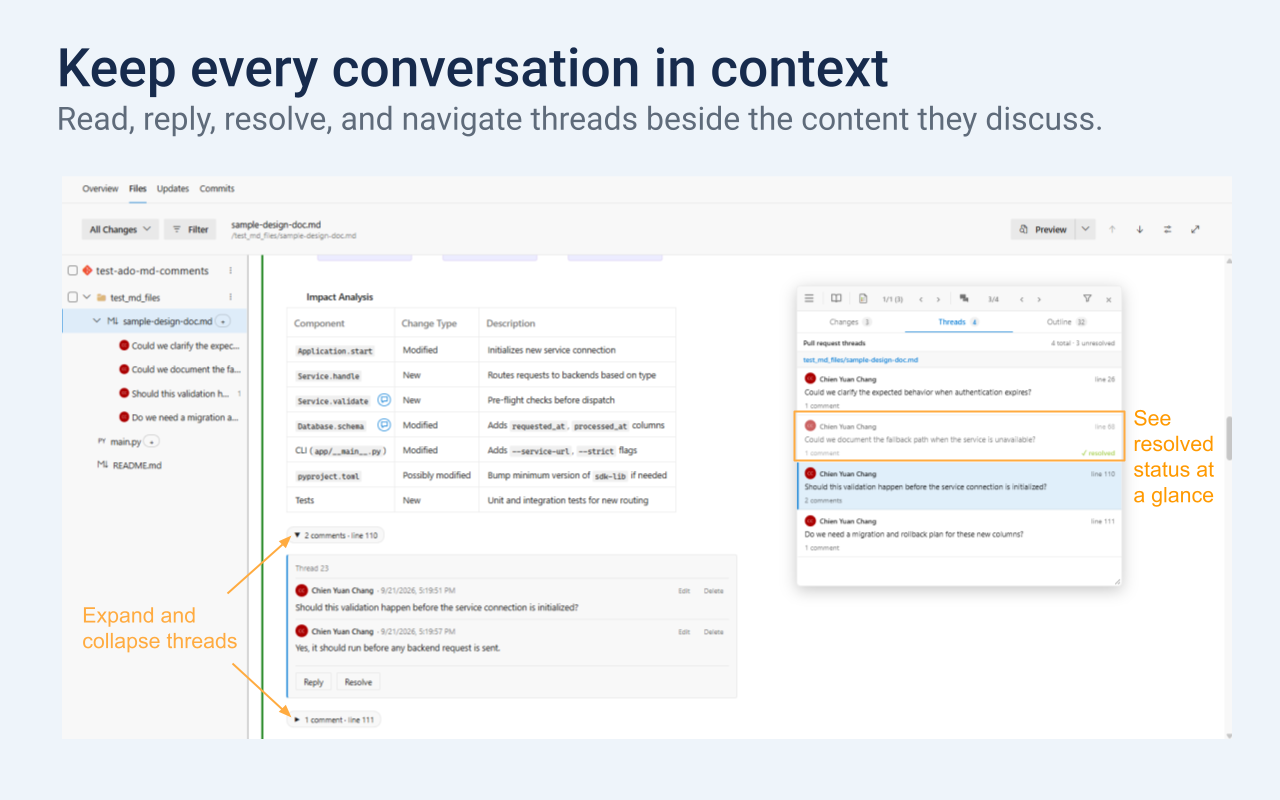
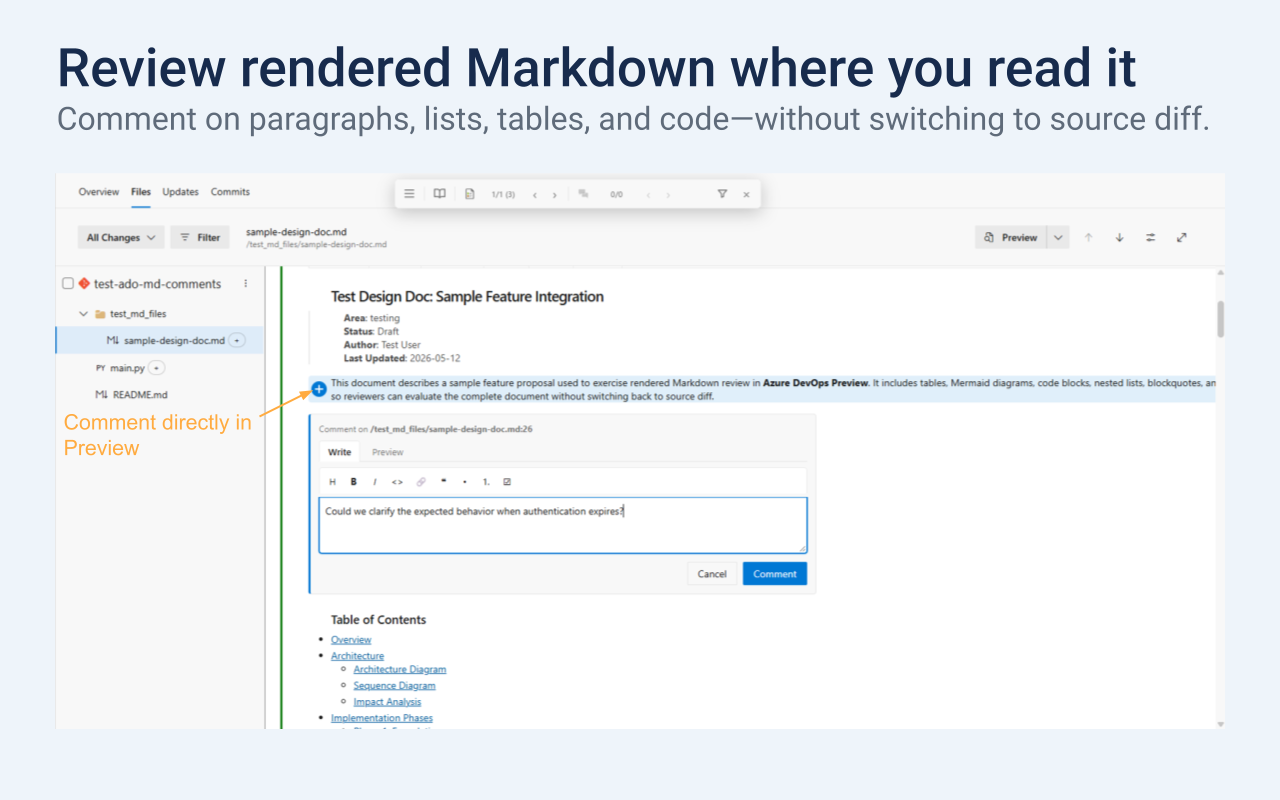
update screenshots

diff --git a/design/screenshots/GITHUB_CAPTURE_PLAN.md b/design/screenshots/GITHUB_CAPTURE_PLAN.md
@@ -1,0 +1,103 @@
+# GitHub store screenshot capture plan
+
+Create four 1280×800 screenshots for the current GitHub store set. The set should explain the whole product rather than concentrating on one release. Use the same visual frame as the ADO set: pale header, large benefit-led title, one concise subtitle, and a cropped product view below.
+
+## Shared capture rules
+
+- Capture GitHub in light theme at a consistent browser zoom and viewport.
+- Use `test_md_files/sample-design-doc.md` as the canonical source document and keep the same pull request throughout the set.
+- Keep repository, branch, and comment text safe for public store listings.
+- Show one primary workflow per image; avoid covering important rendered content with the sidebar.
+- Prefer one restrained orange annotation when discovery would otherwise be difficult.
+- Do not show unfinished GitHub v1.10.0 controls or claim functionality that has not shipped.
+- Export final images directly under `design/screenshots/github/` as `github_screenshot_1.png` through `github_screenshot_4.png`.
+- Verify every final PNG is exactly 1280×800.
+
+## Visual design specification
+
+Use the same outer frame as the canonical ADO screenshots so both store listings read as one product family. The palette was measured from the existing ADO PNGs.
+
+| Element | Setting |
+|---|---|
+| Canvas | 1280×800 |
+| Frame background | `#EEF4FA` |
+| Font family | `Segoe UI`, with `Arial`, sans-serif fallback |
+| Title | approximately 42 px, weight 700, centered, `#172B4D` |
+| Subtitle | approximately 22 px, weight 400, centered, `#5F6B7A` |
+| Annotation accent | `#FFAB40`; use for arrows, outlines, and short annotation labels only |
+| Horizontal text inset | approximately 60 px |
+| Product crop | approximately 55 px from each side, beginning around y=173; preserve a frame border below the crop |
+
+- Keep the title to one line where possible and the subtitle to one concise line.
+- Preserve GitHub and Primer's native colors and fonts inside the product crop; only the outer frame is shared with ADO.
+- Use bold annotation text only when needed for legibility. Do not introduce additional accent colors.
+- Keep arrows and outlines clear of comment text, identities, and primary actions.
+- If a reusable compositor is introduced, keep these defaults synchronized with the ADO plan.
+
+## 1. Review rendered Markdown where you read it
+
+**Subtitle:** Comment on paragraphs, lists, tables, and code—without switching to source diff.
+
+**Capture:**
+
+- Use the `Overview` section of `test_md_files/sample-design-doc.md`.
+- Target the first overview paragraph beginning `This is the overview paragraph` so the heading, formatted prose, link, and numbered list remain visible together.
+- Show the blue `+` beside that changed paragraph.
+- Keep the inline editor open with: `Could we clarify whether ordering means source order or rendered order?`
+- Include the Write/Preview tabs and Markdown toolbar.
+- Keep enough rendered content visible to make rich-diff context unmistakable.
+- Optional annotation: `Comment directly in rich diff` pointing to the `+`.
+
+This is the lead image because it explains the extension's core purpose without requiring prior product knowledge.
+
+## 2. Keep every conversation in context
+
+**Subtitle:** Read, reply, resolve, and revisit review threads beside the rendered content they discuss.
+
+**Capture:**
+
+- Open one inline thread with at least two comments.
+- Show Reply and Resolve or Unresolve actions.
+- Open the Threads tab with several realistic cards, including one resolved conversation.
+- Ensure the selected sidebar card and inline thread visibly refer to the same discussion.
+
+## 3. Scan what changed
+
+**Subtitle:** Step through added, removed, and modified sections without rereading the unchanged document.
+
+**Capture:**
+
+- Open the Changes tab with several cards visible.
+- Show a mix of added, removed, and modified rendered blocks.
+- Keep the selected card and destination block visible together.
+- Include a new-file or deleted-file summary card only if it fits without obscuring the main workflow.
+
+## 4. Navigate the whole Markdown PR
+
+**Subtitle:** Browse headings across changed files, jump to any section, and fold long documents by level.
+
+**Capture:**
+
+- Open the Outline tab with headings from more than one Markdown file.
+- Show Fold H1/H2/H3 and Expand all controls.
+- Select a nested heading and show the matching rendered section.
+- Collapse at least two sibling sections so the folding benefit is visible.
+- Optional annotation: `Fold long sections to stay focused` pointing to the bulk controls.
+
+## Deferred: Stay oriented across changed files
+
+**Subtitle:** GitHub's file tree, rendered document, and review sidebar stay synchronized as you move through the PR.
+
+This is a candidate fifth slide for a future store refresh, not part of the current four-image set.
+
+**Capture:**
+
+- Show GitHub's native file tree with the current Markdown file visibly highlighted.
+- Show the same file in the rendered review area.
+- Keep the sidebar header visible with a file-scoped counter and PR-wide total.
+- Use a pull request with multiple Markdown files so the cross-file value is obvious.
+- Avoid duplicating the detailed Outline composition from screenshot 4; emphasize the three synchronized surfaces instead.
+
+## Replacement policy
+
+Keep the existing screenshots under `design/screenshots/1280x800/` until all four replacements have been reviewed. Once the new set is complete, use `design/screenshots/github/` as the canonical store-upload folder and retain the old set only if historical comparison is still useful.

diff --git a/design/screenshots/ADO_CAPTURE_PLAN.md b/design/screenshots/ADO_CAPTURE_PLAN.md
@@ -1,0 +1,107 @@
+# Azure DevOps store screenshot plan
+
+The canonical Azure DevOps store set contains four 1280×800 screenshots under `design/screenshots/ado/`. Together they explain the whole product rather than concentrating only on one release.
+
+## Shared presentation rules
+
+- Capture Azure DevOps in light theme at a consistent browser zoom and viewport.
+- Use the same Markdown pull request and realistic review text throughout the set.
+- Keep organization, project, repository, branch, identity, and comment text safe for public store listings.
+- Use a pale blue-gray frame, a large benefit-led title, and one concise subtitle.
+- Show one primary workflow per image.
+- Use orange annotations sparingly and only for controls whose purpose is not obvious from the product view.
+- Keep the Azure DevOps Files tab and Preview surface visible enough to establish context.
+- Export every final PNG at exactly 1280×800.
+
+## Visual design specification
+
+The palette below was measured from the four canonical PNGs. Typography sizes are the baseline for future editable compositions; minor raster differences from the existing manually composed images are acceptable.
+
+| Element | Setting |
+|---|---|
+| Canvas | 1280×800 |
+| Frame background | `#EEF4FA` |
+| Font family | `Segoe UI`, with `Arial`, sans-serif fallback |
+| Title | approximately 42 px, weight 700, centered, `#172B4D` |
+| Subtitle | approximately 22 px, weight 400, centered, `#5F6B7A` |
+| Annotation accent | `#FFAB40`; use for arrows, outlines, and short annotation labels only |
+| Horizontal text inset | approximately 60 px |
+| Product crop | approximately 55 px from each side, beginning around y=173; preserve a frame border below the crop |
+
+- Keep the title to one line where possible and the subtitle to one concise line.
+- Preserve the host UI's native colors and fonts inside the product crop; do not recolor Azure DevOps to match the outer frame.
+- Use bold annotation text only when needed for legibility. Do not introduce additional accent colors.
+- Keep arrows and outlines clear of comment text, identities, and primary actions.
+- If a reusable compositor is introduced, these values become its defaults and should be changed here before regenerating either target's set.
+
+## 1. Review rendered Markdown where you read it
+
+**File:** `ado/ado_screenshot_0.png`
+
+**Subtitle:** Comment on paragraphs, lists, tables, and code—without switching to source diff.
+
+**Composition:**
+
+- Azure DevOps Markdown Preview is open.
+- The inline comment editor appears below a rendered paragraph.
+- The blue `+`, Write/Preview tabs, Markdown toolbar, and Comment action are visible.
+- The document tree and Table of Contents establish that the reviewer remains inside the rendered document.
+- Orange annotation: `Comment directly in Preview`.
+
+This is the lead image because it explains the extension's core purpose without requiring prior product knowledge.
+
+## 2. Keep every conversation in context
+
+**File:** `ado/ado_screenshot_1.png`
+
+**Subtitle:** Read, reply, resolve, and navigate threads beside the content they discuss.
+
+**Composition:**
+
+- The Threads tab shows multiple conversations and a resolved state.
+- One inline thread is expanded beside the rendered table it discusses.
+- Reply and Resolve actions remain visible.
+- Thread indicators in the native file tree reinforce pull-request-wide conversation awareness.
+- Orange annotations identify expand/collapse behavior and resolved status.
+
+## 3. See what changed without leaving Preview
+
+**File:** `ado/ado_screenshot_2.png`
+
+**Subtitle:** Highlight added and modified sections, then navigate every Markdown change.
+
+**Composition:**
+
+- Modified sections use the warm changed treatment and pure additions use green.
+- The Changes tab lists corresponding cards in document order.
+- The selected card and its rendered destination are visible together.
+- A `NEW FILE` summary card demonstrates pull-request-wide coverage without tinting an entire new document.
+
+## 4. Navigate the whole Markdown PR
+
+**File:** `ado/ado_screenshot_3.png`
+
+**Subtitle:** Browse every heading across changed files and jump directly to the section you need.
+
+**Composition:**
+
+- The Outline tab contains headings from multiple Markdown files.
+- A nested heading is selected and synchronized with the rendered document.
+- Fold H1/H2/H3 and Expand all controls are visible.
+- A rendered Mermaid diagram demonstrates navigation through rich document content.
+- Orange annotation: `Fold long sections to stay focused`.
+
+## Coverage and intentional omissions
+
+The four-image set covers the core user journey:
+
+1. Create a rendered comment.
+2. Read and manage conversations.
+3. Understand and navigate changes.
+4. Navigate and fold a multi-file Markdown pull request.
+
+Table-row markers, code-line markers, `@mention` autocomplete, dark theme, and sidebar dismissal are supporting capabilities rather than separate store slides. They can appear naturally in future recaptures, but should not displace one of the four core scenarios unless user feedback shows that the current set leaves an important product outcome unclear.
+
+## Replacement policy
+
+Replace an image only when the product UI or host chrome has materially changed, the image contains stale or unsafe data, or a clearer composition communicates the same outcome. Preserve the scenario order so store visitors continue to see the core commenting value first.

diff --git a/docs/PUBLISHING.md b/docs/PUBLISHING.md
@@ -99,13 +99,23 @@ GitHub uses the original dark speech-bubble icon. ADO uses the separate Fluent-b
 
 The Web Store accepts up to 5 screenshots at **1280×800 or 640×400** (use the higher resolution). Never reuse screenshots across targets when the service chrome differs.
 
-Suggested ADO v1.3.0 set, in order:
+Current GitHub set, in order:
 
-1. Markdown Preview showing exact-row table thread markers and exact-line code-block thread markers.
-2. Added and modified section highlights beside the Changes tab.
-3. Pull-request-wide Outline with heading navigation and fold controls.
-4. An open comment editor showing `@mention` search results, plus a readable mention in an inline thread.
-5. The integrated sidebar and thread UI in Azure DevOps dark theme.
+1. Inline comment creation directly on rendered Markdown in rich diff.
+2. An expanded inline conversation synchronized with the Threads tab.
+3. Added, removed, and modified rendered sections synchronized with the Changes tab.
+4. Pull-request-wide Outline navigation and section-folding controls.
+
+The exact titles, subtitles, compositions, replacement rules, and deferred fifth-slide idea are in [the GitHub screenshot capture plan](../design/screenshots/GITHUB_CAPTURE_PLAN.md).
+
+Canonical ADO set, in order:
+
+1. Inline comment creation directly in Markdown Preview.
+2. An expanded inline conversation synchronized with the Threads tab.
+3. Added and modified rendered sections synchronized with the Changes tab.
+4. Pull-request-wide Outline navigation and section-folding controls.
+
+The exact titles, subtitles, compositions, and replacement rules are in [the ADO screenshot plan](../design/screenshots/ADO_CAPTURE_PLAN.md).
 
 Optional store assets:
 
